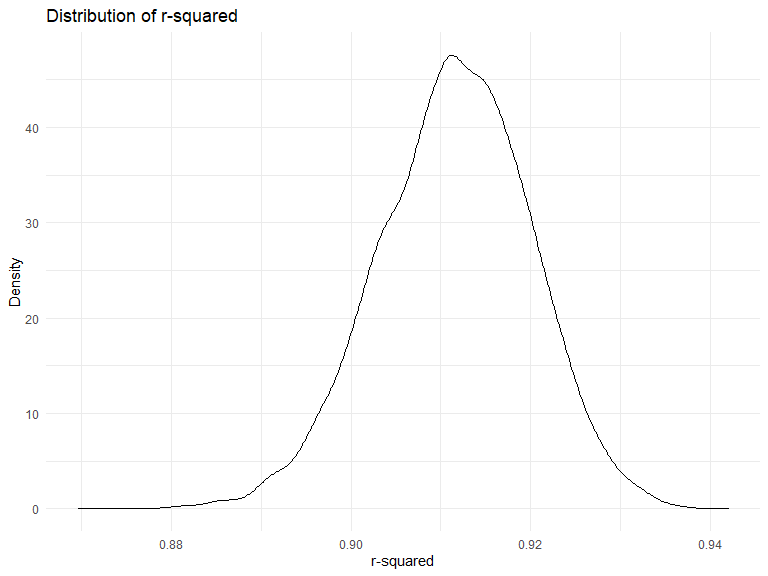
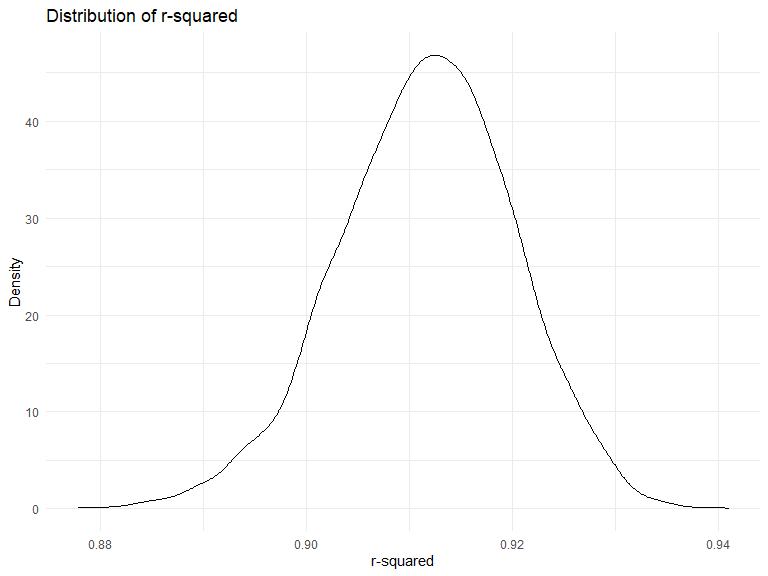
final touches/comments

diff --git a/p8105_hw6_sne2114.md b/p8105_hw6_sne2114.md
@@ -323,15 +323,15 @@ cv_df %>% pull(train) %>% .[[1]] %>% as_tibble
        babysex bhead blength   bwt delwt fincome frace gaweeks malform menarche
        <fct>   <dbl>   <dbl> <dbl> <dbl>   <dbl> <fct>   <dbl> <fct>      <dbl>
      1 2          34      51  3629   177      35 1        39.9 0             13
-     2 2          36      50  3345   148      85 1        39.9 0             12
-     3 1          34      52  3062   157      55 1        40   0             14
-     4 2          33      46  2523   126      96 2        40.3 0             14
-     5 2          33      49  2778   140       5 1        37.4 0             12
-     6 1          36      52  3515   146      85 1        40.3 0             11
-     7 1          33      50  3459   169      75 2        40.7 0             12
-     8 2          35      51  3317   130      55 1        43.4 0             13
-     9 1          35      51  3459   146      55 1        39.4 0             12
-    10 2          35      48  3175   158      75 1        39.7 0             13
+     2 2          33      46  2523   126      96 2        40.3 0             14
+     3 2          33      49  2778   140       5 1        37.4 0             12
+     4 1          36      52  3515   146      85 1        40.3 0             11
+     5 1          33      50  3459   169      75 2        40.7 0             12
+     6 2          35      51  3317   130      55 1        43.4 0             13
+     7 1          35      51  3459   146      55 1        39.4 0             12
+     8 2          35      48  3175   158      75 1        39.7 0             13
+     9 1          36      53  3629   147      75 1        41.3 0             11
+    10 1          35      51  3544   129      65 1        39.6 0             12
     # ... with 3,463 more rows, and 10 more variables: mheight <dbl>, momage <dbl>,
     #   mrace <fct>, parity <dbl>, pnumlbw <dbl>, pnumsga <dbl>, ppbmi <dbl>,
     #   ppwt <dbl>, smoken <dbl>, wtgain <dbl>
@@ -344,15 +344,15 @@ cv_df %>% pull(test) %>% .[[1]] %>% as_tibble
        babysex bhead blength   bwt delwt fincome frace gaweeks malform menarche
        <fct>   <dbl>   <dbl> <dbl> <dbl>   <dbl> <fct>   <dbl> <fct>      <dbl>
      1 1          34      48  3062   156      65 2        25.9 0             14
-     2 2          34      52  3374   156       5 1        41.6 0             13
-     3 1          33      52  3374   129      55 1        40.7 0             12
-     4 1          35      56  3232   147      55 1        42.1 0             13
-     5 2          35      50  3175   140      85 2        40.6 0             14
-     6 2          35      51  3827   130      45 1        41.3 0             12
-     7 1          38      53  3799   167      75 1        39.9 0             12
-     8 1          34      52  3118   130      75 1        41   0             12
-     9 2          35      52  3487   121      45 1        39.9 0             11
-    10 1          34      52  3033   172      85 1        41.1 0             16
+     2 2          36      50  3345   148      85 1        39.9 0             12
+     3 1          34      52  3062   157      55 1        40   0             14
+     4 2          34      52  3374   156       5 1        41.6 0             13
+     5 1          33      52  3374   129      55 1        40.7 0             12
+     6 2          36      51  2977   135      45 1        41.7 0             13
+     7 1          34      63  3175   143      25 1        41.9 0             13
+     8 2          34      52  3629   112      25 1        38   0             10
+     9 1          35      53  3175   130      45 1        40.4 0             13
+    10 1          35      52  3232   121      75 3        42.3 0             13
     # ... with 859 more rows, and 10 more variables: mheight <dbl>, momage <dbl>,
     #   mrace <fct>, parity <dbl>, pnumlbw <dbl>, pnumsga <dbl>, ppbmi <dbl>,
     #   ppwt <dbl>, smoken <dbl>, wtgain <dbl>
@@ -400,7 +400,10 @@ cv_df %>%
 <img src="p8105_hw6_sne2114_files/figure-gfm/unnamed-chunk-8-1.png" width="90%" />
 
 We can see that my model has the lowest RMSE on average making it the
-best predictor model out of the 3 discussed.
+best predictor model out of the 3 discussed. The distribution of my
+model’s violin plot looks very similar to that of the all interactions
+model. The main effects model clearly has the highest average RMSE,
+making it the worst predictor model.
 
 ## Problem 3
 
@@ -437,6 +440,9 @@ weather_df
     10 CentralPark_NY USW00094728 2017-01-10     0   7.8  -6  
     # ... with 355 more rows
 
+Bootstrapping 5000 times and tidying the bootstrap data frame to include
+r2 and Log(B0 \* B1).
+
 ``` r
 bootstrap_df = 
   weather_df %>%
@@ -466,17 +472,19 @@ bootstrap_df
     # A tibble: 5,000 x 5
        strap_id r.squared intercept  tmin   LOG
        <chr>        <dbl>     <dbl> <dbl> <dbl>
-     1 0001         0.909      7.33  1.02  2.01
-     2 0002         0.926      6.98  1.06  2.00
-     3 0003         0.919      7.25  1.05  2.03
-     4 0004         0.916      6.95  1.08  2.01
-     5 0005         0.919      7.05  1.03  1.98
-     6 0006         0.920      7.07  1.05  2.00
-     7 0007         0.918      6.92  1.05  1.99
-     8 0008         0.909      7.44  1.01  2.02
-     9 0009         0.909      7.41  1.03  2.03
-    10 0010         0.915      7.31  1.02  2.01
+     1 0001         0.901      7.55  1.02  2.04
+     2 0002         0.918      6.74  1.06  1.97
+     3 0003         0.907      7.46  1.02  2.03
+     4 0004         0.911      7.29  1.02  2.01
+     5 0005         0.919      7.21  1.04  2.01
+     6 0006         0.927      7.24  1.05  2.03
+     7 0007         0.931      6.90  1.06  1.99
+     8 0008         0.919      7.03  1.06  2.01
+     9 0009         0.904      6.98  1.05  1.99
+    10 0010         0.893      7.53  1.04  2.05
     # ... with 4,990 more rows
+
+We will then plot the distributions for both r2 and Log(B0 \* B1).
 
 ``` r
 bootstrap_df %>% 
@@ -495,12 +503,16 @@ bootstrap_df %>%
   ggplot(aes(x = LOG)) +
   geom_density() +
   labs(
-   title = "Distribution of Log (B1*B2)",
-   x = "Log (B1*B2)",
+   title = "Distribution of Log (B0*B1)",
+   x = "Log (B0*B1)",
    y = "Density")
 ```
 
 <img src="p8105_hw6_sne2114_files/figure-gfm/unnamed-chunk-11-2.png" width="90%" />
+
+We can see that both plots are basically normally distributed.
+
+The 95% confidence interval for r squared is:
 
 ``` r
 bootstrap_df %>% 
@@ -510,8 +522,10 @@ bootstrap_df %>%
 
 ``` 
      2.5%     97.5% 
-0.8942560 0.9273315 
+0.8938809 0.9276142 
 ```
+
+The 95% confidence interval for Log(B0 \* B1) is:
 
 ``` r
 bootstrap_df %>% 
@@ -521,5 +535,5 @@ bootstrap_df %>%
 
 ``` 
     2.5%    97.5% 
-1.963808 2.058355 
+1.965330 2.059961 
 ```
